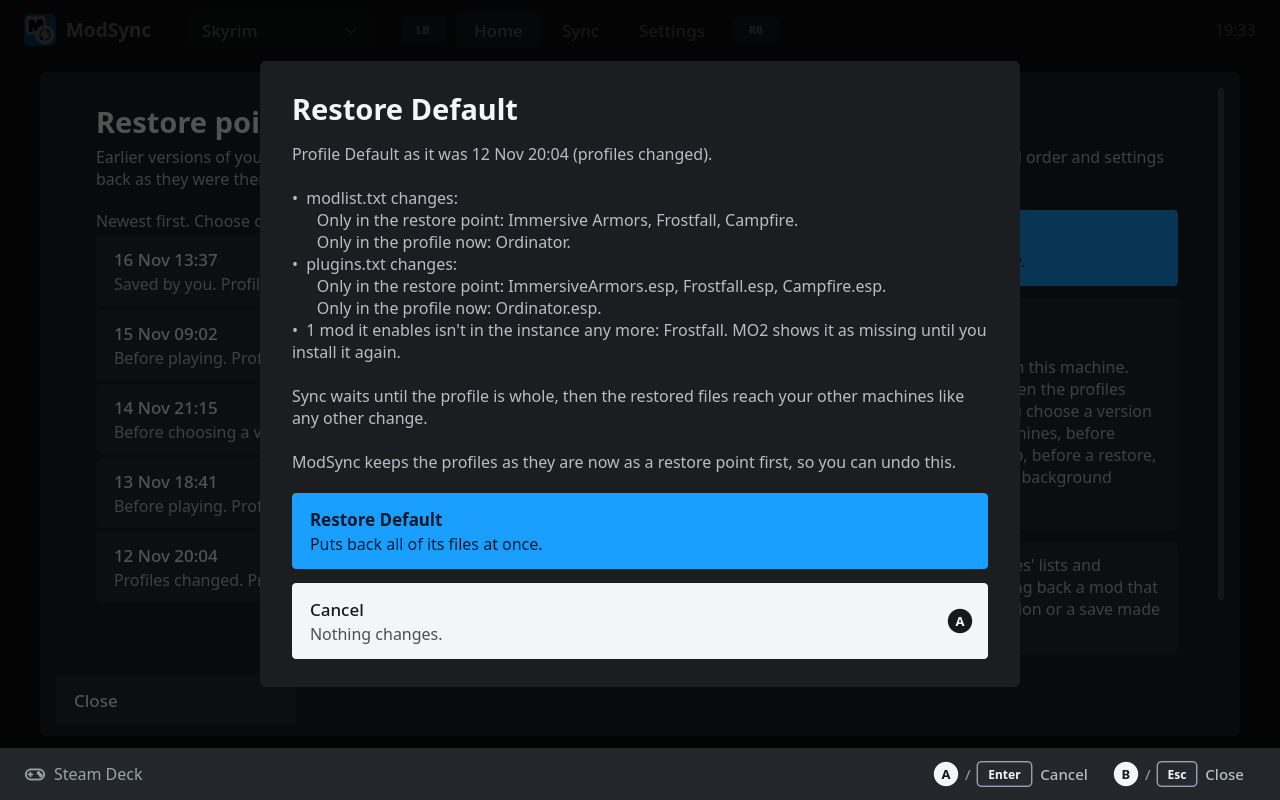
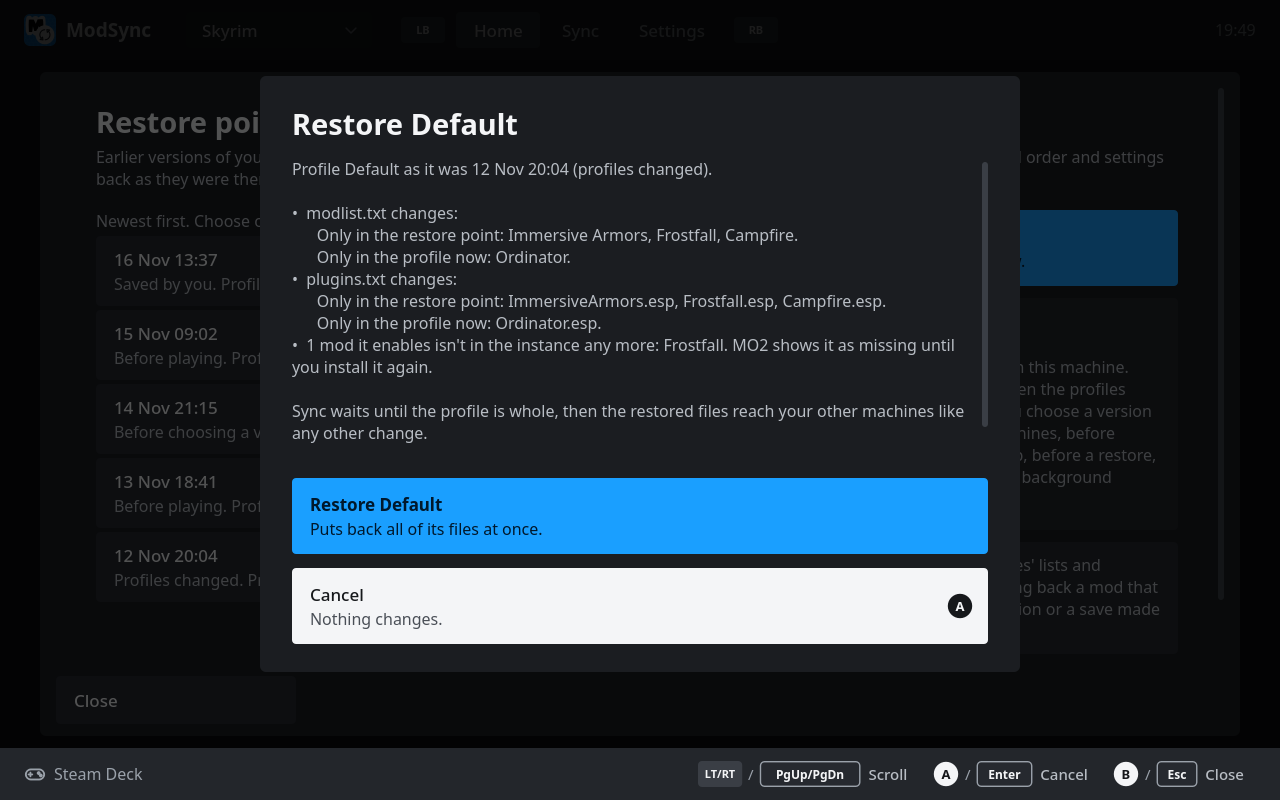
Finish a cut-short restore with the window busy; tie previews to their sheet; scroll long sheets
From review of #173:
- Opening the sheet only reads. A restore that was cut short is seen through
  as its own step with the window busy, since it may write a profile.
- One preview at a time, and a preview that arrives after its sheet closed,
  or for an older request, is dropped.
- The preview's text and the profile picker's rows scroll inside their
  sheet, so long previews and many profiles keep their buttons in view; the
  triggers or PgUp/PgDn scroll the text. A reason not to restore now comes
  first in the text.

Changed region(s): [[0.2188, 0.125, 0.7812, 0.8438], [0.1875, 0.0625, 0.8125, 0.0938], [0.5312, 0.9375, 0.6875, 1.0]]

diff --git a/modsync/ui/pages/restore.py b/modsync/ui/pages/restore.py
@@ -20,13 +20,14 @@ import shiboken6
 
 from PySide6.QtCore import QUrl
 from PySide6.QtGui import QDesktopServices
-from PySide6.QtWidgets import QVBoxLayout
+from PySide6.QtWidgets import QAbstractScrollArea, QVBoxLayout, QWidget
 
 from modsync import restore_points as rp
-from modsync.ui import worker
+from modsync.ui import nav, worker
 from modsync.ui.input import Action
+from modsync.ui.overlays import ConfirmSheet, PageSheet
 from modsync.ui.pages import Page
-from modsync.ui.widgets import Panel, Tile, clear_layout, label
+from modsync.ui.widgets import Panel, Tile, clear_layout, label, scroller
 
 SHOWN = 3  # profiles named on a row before "and N more"
 
@@ -35,6 +36,68 @@ def _profiles(names: list[str]) -> str:
     if len(names) <= SHOWN:
         return ", ".join(names)
     return f"{', '.join(names[:SHOWN])} and {len(names) - SHOWN} more"
+
+
+class ScrollingConfirm(ConfirmSheet):
+    """A ConfirmSheet for text and choices of any length: the text scrolls
+    (the triggers, or PgUp/PgDn), and with ``scroll_rows`` so do the choices
+    before the last one, which stays in view. A restore's preview or a point
+    with dozens of profiles still fits 1280 × 800 with its buttons showing."""
+
+    TEXT_HEIGHT = 300
+    ROWS_HEIGHT = 330
+
+    def __init__(self, host, title, text, choices, on_choice, *, default=None, scroll_rows=False) -> None:
+        super().__init__(host, title, text, choices, on_choice, default=default)
+        tiles = list(self.tiles.values())
+        for w in (self.text, *tiles):
+            self.body.removeWidget(w)
+        while self.body.count() > 1:  # the spacing after the text
+            self.body.takeAt(1)
+        self.text_area = self._area([self.text], self.TEXT_HEIGHT)
+        self.body.addWidget(self.text_area)
+        self.body.addSpacing(6)
+        if scroll_rows and len(tiles) > 1:
+            self.rows_area = self._area(tiles[:-1], self.ROWS_HEIGHT, spacing=8)
+            self.body.addWidget(self.rows_area)
+            tiles = tiles[-1:]
+        for tile in tiles:
+            self.body.addWidget(tile)
+
+    @staticmethod
+    def _area(widgets, height: int, *, spacing: int = 0):
+        content = QWidget()
+        v = QVBoxLayout(content)
+        v.setContentsMargins(0, 0, 10, 0)
+        v.setSpacing(spacing)
+        for w in widgets:
+            v.addWidget(w)
+        v.addStretch(1)
+        area = scroller(content)
+        area.setSizeAdjustPolicy(QAbstractScrollArea.SizeAdjustPolicy.AdjustToContents)
+        area.setMaximumHeight(height)
+        return area
+
+    def resizeEvent(self, event) -> None:  # noqa: N802
+        super().resizeEvent(event)
+        # As tall as the wrapped text, up to TEXT_HEIGHT: the scroll area can't
+        # tell how tall a wrapped label is before it knows its width.
+        width = self.sheet.width() - self.body.contentsMargins().left() - self.body.contentsMargins().right() - 16
+        if width > 0:
+            self.text_area.setFixedHeight(min(self.TEXT_HEIGHT, self.text.heightForWidth(width) + 2))
+
+    @property
+    def text_scrolls(self) -> bool:
+        return self.text_area.verticalScrollBar().maximum() > 0
+
+    def hints(self):
+        return [([Action.SCROLL_DOWN], "Scroll"), *super().hints()] if self.text_scrolls else super().hints()
+
+    def handle_action(self, action: Action) -> bool:
+        if action in (Action.SCROLL_UP, Action.SCROLL_DOWN) and self.text_scrolls:
+            nav.scroll_by(self.text, -0.8 if action == Action.SCROLL_UP else 0.8)
+            return True
+        return super().handle_action(action)  # otherwise the list around the focused row
 
 
 def row_words(point: rp.Point) -> tuple[str, str]:
@@ -63,6 +126,11 @@ class RestorePage(Page):
         self.save_tile: Tile | None = None
         self._loading = False
         self._just_opened = False
+        self._recovering = False
+        # Each preview asked for; a result for an older one, or for a sheet
+        # closed since, is dropped.
+        self._request = 0
+        self._asking = False
         state = self.service.state
         self.header("Restore points", "Earlier versions of your Mod Organizer 2 profiles, kept on this machine. "
                                       "Restoring one puts a profile's mod list, plugins, load order and settings "
@@ -105,15 +173,25 @@ class RestorePage(Page):
         self._just_opened = True
         self.reload()
 
+    def hideEvent(self, event) -> None:  # noqa: N802
+        super().hideEvent(event)
+        self._request += 1  # the sheet closed: a preview still coming is no longer wanted
+        self._asking = False
+
+    def _sheet_open(self) -> bool:
+        """This page's sheet is open, with nothing over it."""
+        top = self.host.top_overlay
+        return isinstance(top, PageSheet) and top.page is self
+
     def reload(self) -> None:
         if self.save_tile is None or self._loading:
             return
         self._loading = True
         worker.run_async(self._load, on_done=self._show, on_failed=self._load_failed)
 
-    def _load(self) -> tuple[list[rp.Point], rp.Usage]:
-        """Off the GUI thread: finishing a restore cut short, and reading the points."""
-        return self.service.restore_points(), self.service.restore_usage()
+    def _load(self) -> tuple[list[rp.Point], rp.Usage, bool]:
+        """Off the GUI thread: reading the points, and whether a restore was cut short."""
+        return self.service.restore_points(), self.service.restore_usage(), self.service.restore_pending()
 
     def _load_failed(self, message: str) -> None:
         self._loading = False
@@ -124,7 +202,9 @@ class RestorePage(Page):
         self._loading = False
         if not shiboken6.isValid(self):
             return
-        points, usage = result
+        points, usage, pending = result
+        if pending:
+            self._recover()
         had_focus = any(row.hasFocus() for row in self.rows)
         self.points = points
         self.rows = []
@@ -167,6 +247,33 @@ class RestorePage(Page):
             return True
         return False
 
+    def _recover(self) -> None:
+        """See a restore that was cut short through, with the window busy: it
+        may write a profile, so nothing may start MO2 meanwhile."""
+        if self._recovering or self.host.busy:
+            return
+        self._recovering = True
+        self.host.set_busy("restore", True)
+        worker.run_async(self.service.finish_interrupted_restore, on_done=self._recovered,
+                         on_failed=self._recover_failed)
+
+    def _recovered(self, done: str) -> None:
+        self._recovering = False
+        self.host.set_busy("restore", False)
+        words = {"finished": "A restore cut short earlier has been finished.",
+                 "undone": "A restore cut short earlier couldn't be finished, so the profile is back as it was.",
+                 "left": "⚠ A restore cut short earlier couldn't be finished or undone. Its profile is as it "
+                         "was left."}
+        if done in words:
+            self.host.notify(words[done], None if done == "left" else "ok")
+        if shiboken6.isValid(self) and done:
+            self.reload()
+
+    def _recover_failed(self, message: str) -> None:
+        self._recovering = False
+        self.host.set_busy("restore", False)
+        self.host.notify(f"⚠ Couldn't finish a restore cut short earlier: {message}")
+
     # --- saving ---
     def save_now(self) -> None:
         if self.host.busy:
@@ -191,7 +298,7 @@ class RestorePage(Page):
 
     # --- restoring ---
     def choose(self, point: rp.Point) -> None:
-        if self.host.busy:
+        if self.host.busy or self._asking:
             return
         if point.kind == "point" and not point.profiles:
             self.host.confirm(
@@ -229,30 +336,45 @@ class RestorePage(Page):
 
         whole = ("Each profile is restored whole: its mod list, plugins, load order and settings together."
                  if point.whole else "Only the files in it change for the profile you choose.")
-        self.host.confirm(
-            f"{point.described}, {rp.when(point)}",
+        ScrollingConfirm(
+            self.host, f"{point.described}, {rp.when(point)}",
             f"Which profile should go back to how it was then? {whole} The others stay as they are.",
             [*((f"profile:{name}", name, ", ".join(sorted(point.files[name])) if not point.whole else "",
                 "normal", None) for name in point.profiles),
              ("cancel", "Cancel", "", "normal", "close")],
-            chosen)
+            chosen, scroll_rows=True).open()
 
     def ask(self, point: rp.Point, profile: str) -> None:
-        """Show what restoring would change, then restore if asked."""
-        worker.run_async(self._preview, point.id, profile, on_done=self._ask, on_failed=self._failed_preview)
+        """Show what restoring would change, then restore if asked. One at a
+        time, and only into the sheet that asked."""
+        if self._asking:
+            return
+        self._asking = True
+        self._request += 1
+        token = self._request
+        worker.run_async(self._preview, point.id, profile, on_done=partial(self._ask, token),
+                         on_failed=partial(self._failed_preview, token))
+
+    def _wanted(self, token: int) -> bool:
+        """The preview ``token`` is the latest, and its sheet is still open."""
+        if not shiboken6.isValid(self) or token != self._request:
+            return False
+        self._asking = False
+        return self._sheet_open()
 
     def _preview(self, point_id: str, profile: str):
         """Off the GUI thread: reading both versions, and whether MO2 or a game runs."""
         preview = self.service.restore_preview(point_id, profile)
         return preview, (self.service.restore_blocked() if not preview.unchanged else "")
 
-    def _failed_preview(self, message: str) -> None:
+    def _failed_preview(self, token: int, message: str) -> None:
+        if not self._wanted(token):
+            return
         self.host.notify(f"⚠ {message}")
-        if shiboken6.isValid(self):
-            self.reload()
+        self.reload()
 
-    def _ask(self, result) -> None:
-        if not shiboken6.isValid(self):
+    def _ask(self, token: int, result) -> None:
+        if not self._wanted(token):
             return
         preview, blocked = result
         point, profile = preview.point, preview.profile
@@ -261,8 +383,8 @@ class RestorePage(Page):
         title = f"Restore {profile}"
         intro = f"Profile {profile} as it was {rp.when(point)} ({point.described.lower()})."
         if preview.unchanged:
-            self.host.confirm(title, f"{intro}\n\n{lines}", [("close", "Close", "", "normal", "close")],
-                              lambda _key: None)
+            ScrollingConfirm(self.host, title, f"{intro}\n\n{lines}", [("close", "Close", "", "normal", "close")],
+                             lambda _key: None).open()
             return
         state = self.service.reload_state()
         if state.syncing and state.sync_paused:
@@ -275,20 +397,21 @@ class RestorePage(Page):
         undo = "ModSync keeps the profiles as they are now as a restore point first, so you can undo this."
         text = "\n\n".join(filter(None, [intro, lines, synced, undo]))
         if blocked:
-            self.host.confirm(title, f"{text}\n\n{blocked}", [("close", "Close", "", "normal", "close")],
-                              lambda _key: None)
+            # The reason first: below a long preview it could be out of sight.
+            ScrollingConfirm(self.host, title, f"{blocked}\n\n{text}", [("close", "Close", "", "normal", "close")],
+                             lambda _key: None).open()
             return
 
         def chosen(key: str | None) -> None:
             if key == "restore":
                 self.restore(point, profile)
 
-        self.host.confirm(
-            title, text,
+        ScrollingConfirm(
+            self.host, title, text,
             [("restore", f"Restore {profile}", "Puts back all of its files at once." if point.whole else
               "Puts back the files in it at once.", "primary", "undo"),
              ("cancel", "Cancel", "Nothing changes.", "normal", "close")],
-            chosen, default="cancel")
+            chosen, default="cancel").open()
 
     def restore(self, point: rp.Point, profile: str) -> None:
         if self.host.busy:

diff --git a/tests/test_ui_restore.py b/tests/test_ui_restore.py
@@ -155,6 +155,71 @@ class RestoreSheetTests(UiTestCase):
         self.settle()
         self.assertEqual(list(window.top_overlay.tiles), ["close"])
 
+    def test_a_restore_cut_short_is_finished_with_the_window_busy(self):
+        point = rp.capture(self.inst)
+        self.write("Default", "+Alpha\n")
+        rp.begin(self.inst, point, "Default", before=point.id)
+        State(instance_path=str(self.inst)).save()
+        window = self.window()
+        seen = []
+        real = window.service.finish_interrupted_restore
+
+        def finish():
+            seen.append(window.busy)
+            return real()
+
+        with patch.object(window.service, "finish_interrupted_restore", finish):
+            window.go("restore")
+            self.settle(6)
+        self.assertEqual(seen, [True])
+        self.assertFalse(window.busy)
+        self.assertEqual(self.modlist(), "+Alpha\n+Beta\n")
+        self.assertIn("A restore cut short earlier has been finished.", window.messages)
+
+    def test_a_preview_arriving_after_the_sheet_closed_is_dropped_and_asked_once(self):
+        rp.capture(self.inst)
+        self.write("Default", "+Alpha\n")
+        window, page = self.open_sheet()
+        page.rows[0].click()
+        page.rows[0].click()  # twice before the first answer
+        self.settle()
+        self.assertIsInstance(window.top_overlay, ConfirmSheet)
+        self.assertEqual(sum(isinstance(o, ConfirmSheet) for o in window.overlays), 1)
+        window.top_overlay.choose("cancel")
+        page.rows[0].click()
+        window.top_overlay.cancel()  # the Restore points sheet, then the MO2 one
+        window.top_overlay.cancel()
+        self.settle()
+        self.assertIsNone(window.top_overlay)
+        page.rows[0].click()  # and from a closed sheet, nothing comes
+        self.settle()
+        self.assertIsNone(window.top_overlay)
+
+    def test_long_previews_and_many_profiles_scroll_with_their_buttons_in_view(self):
+        for n in range(30):
+            self.write(f"Profile {n:02}", "+Alpha\n")
+        for n in range(40):
+            (self.inst / "profiles" / "Default" / f"extra{n:02}.ini").write_text(f"[A]\nb={n}\n")
+        rp.capture(self.inst)
+        for n in range(40):
+            (self.inst / "profiles" / "Default" / f"extra{n:02}.ini").write_text(f"[A]\nb=x{n}\n")
+        window, page = self.open_sheet()
+        page.rows[0].click()
+        self.settle()
+        picker = window.top_overlay
+        self.assertGreaterEqual(min(t.height() for t in picker.tiles.values()), 40)
+        bottom = picker.tiles["cancel"].mapTo(window, picker.tiles["cancel"].rect().bottomLeft()).y()
+        self.assertLess(bottom, window.height() - window.hintbar.height())
+        picker.tiles["profile:Default"].setFocus()
+        picker.choose("profile:Default")
+        self.settle()
+        confirm = window.top_overlay
+        self.assertIn(([Action.SCROLL_DOWN], "Scroll"), confirm.hints())
+        self.assertGreater(confirm.text_area.verticalScrollBar().maximum(), 0)
+        for key in ("restore", "cancel"):
+            tile = confirm.tiles[key]
+            self.assertLess(tile.mapTo(window, tile.rect().bottomLeft()).y(), window.height() - window.hintbar.height())
+
     def test_without_an_instance_it_says_what_comes_first(self):
         window = self.window()
         page = window.pages["restore"]
